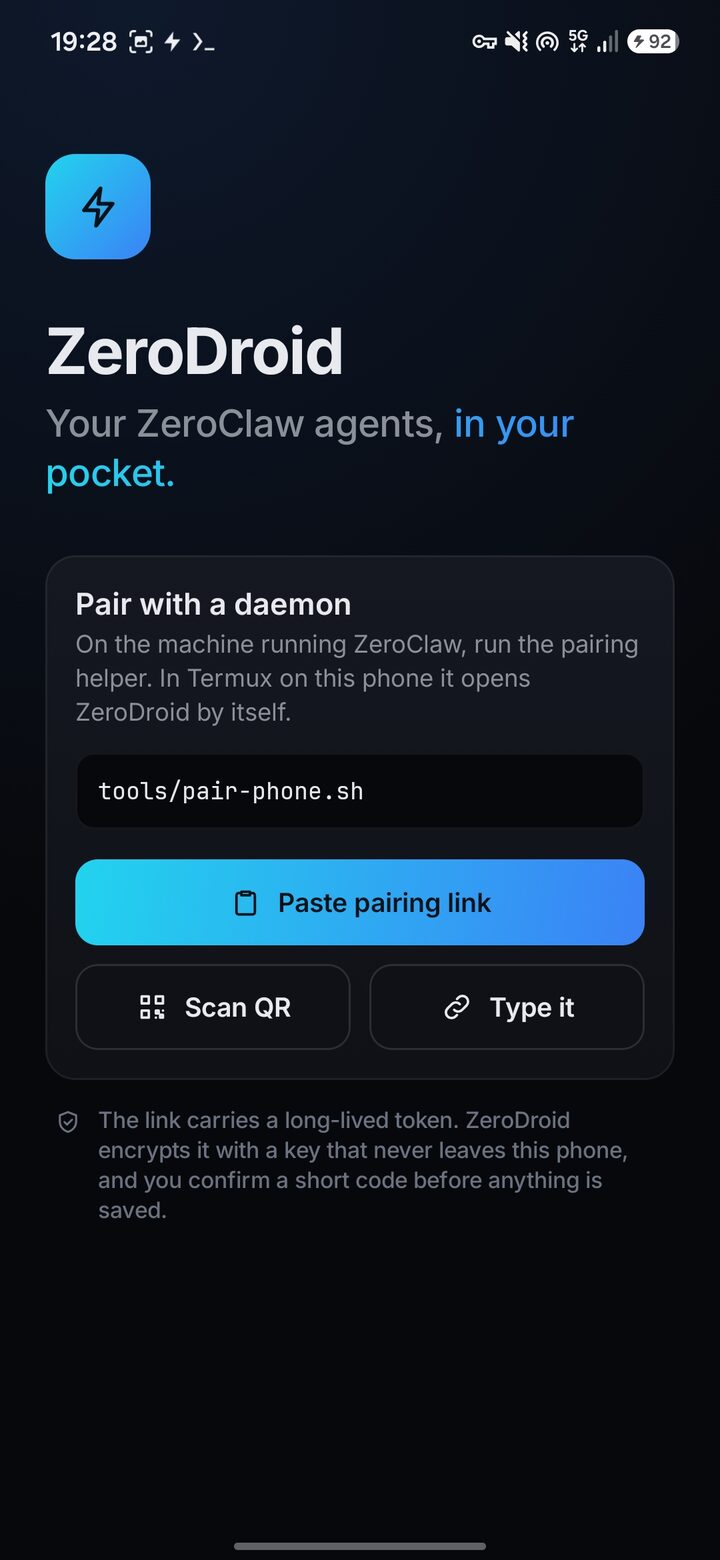
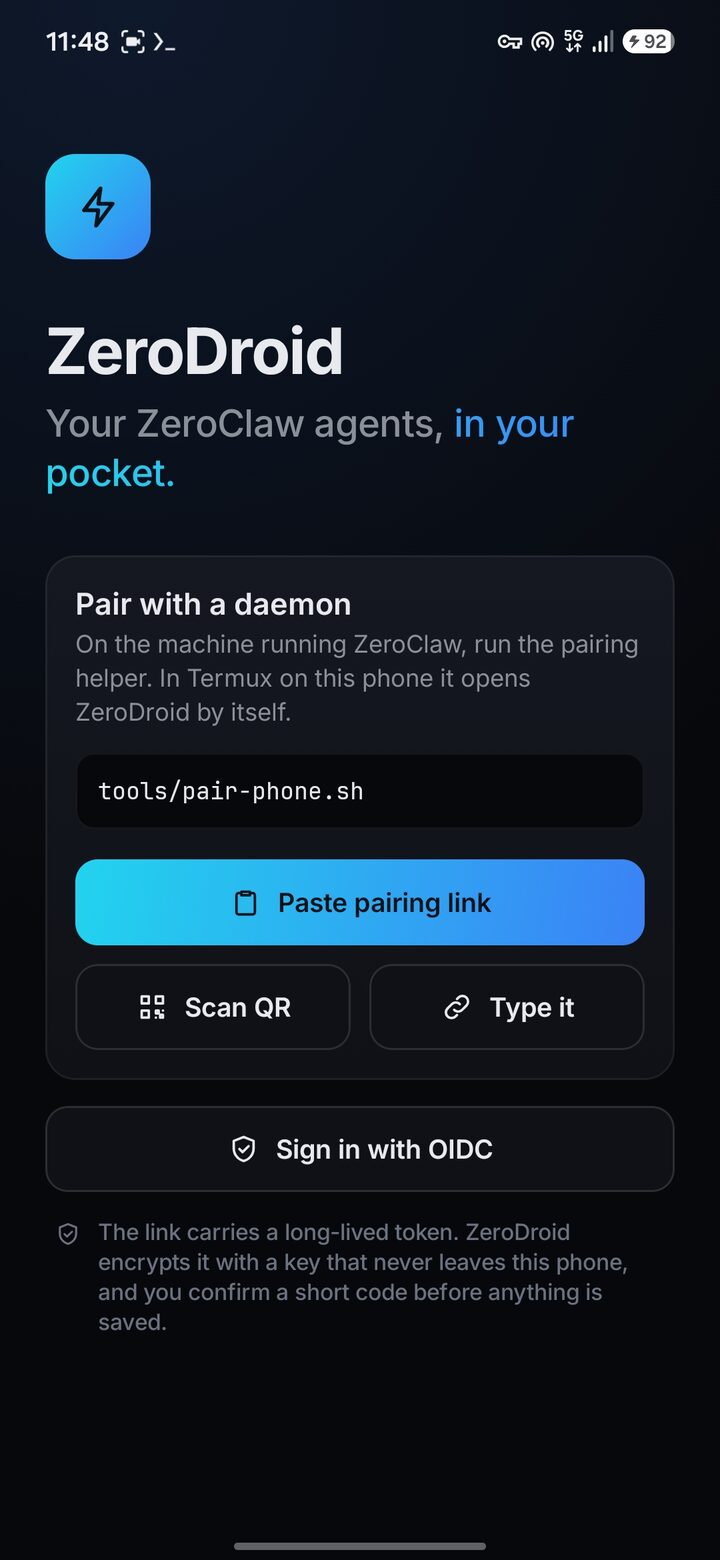
docs(readme): document OIDC sign-in with screenshots
Welcome screen with the new Sign in with OIDC option, the sign-in form, install requirements for either sign-in path, the permissions the app actually needs, and renewal/revalidation behaviour. Changelog entry under Unreleased.

Changed region(s): [[0.0611, 0.7077, 0.8556, 0.8615], [0.6417, 0.0, 0.9472, 0.0308], [0.0611, 0.0, 0.2444, 0.0308]]

diff --git a/README.md b/README.md
@@ -60,6 +60,10 @@ memory all stay on the daemon.
   Android Keystore, a pinned CA, and an encrypted bearer token. Pairing
   always asks you to compare a short code, so another app cannot pair
   silently.
+- **Sign in with OIDC**: for daemons behind an identity provider, sign in
+  like `zerocode login`, approving in the browser, with no pairing link. The
+  app reminds you before the sign-in expires and renews it without
+  interrupting a running turn.
 
 ## Screenshots
 
@@ -73,19 +77,22 @@ memory all stay on the daemon.
 | Chat menu | Choose a folder | Editing a setting |
 
 <details>
-<summary>Pairing</summary>
+<summary>Pairing and sign-in</summary>
 
 | | | |
 |:-:|:-:|:-:|
-| ![The welcome screen with the pairing options](docs/screenshots/onboarding.jpg) | ![Confirming the pairing code](docs/screenshots/pair-confirm.jpg) | ![The paired daemon and its certificate](docs/screenshots/pairing-settings.jpg) |
+| ![The welcome screen with the pairing and OIDC options](docs/screenshots/onboarding.jpg) | ![Confirming the pairing code](docs/screenshots/pair-confirm.jpg) | ![The paired daemon and its certificate](docs/screenshots/pairing-settings.jpg) |
 | Welcome | Compare the code | Paired daemon |
+| ![The OIDC sign-in form with the advanced WSS and gateway URLs](docs/screenshots/oidc-sign-in.jpg) | | |
+| Sign in with OIDC | | |
 
 </details>
 
 ## Install
 
 You need Android 10 or newer and a ZeroClaw daemon, version 0.9.0 or newer,
-with its RPC plane (WSS) and enrollment endpoint enabled.
+with its RPC plane (WSS) enabled, plus either its enrollment endpoint (to pair
+with a link) or an OIDC provider (to [sign in](#sign-in-with-oidc)).
 
 Download `zerodroid-X.Y.Z.apk` from the
 [latest release](https://github.com/SyscallBrain/zerodroid/releases/latest)
@@ -163,14 +170,19 @@ the way `zerocode login` does (ZeroClaw v0.9.0 or later), with no pairing link.
 Tap *Sign in with OIDC*, enter the daemon host and the provider alias (for
 example `corp`), and approve the sign-in in the browser. *Advanced* takes a
 custom WSS URL (default `wss://<host>:9781/`) and gateway URL (default
-`https://<host>:42617`, or the HTTPS URL of the proxy in front of it).
+`https://<host>:42617`, or the HTTPS URL of the proxy in front of it). Plain
+`http://` is accepted only for a gateway on the phone itself (`127.0.0.1`),
+such as a daemon in Termux.
 
 The daemon needs, as for `zerocode login`:
 
 - an `[oidc.<alias>]` provider with the device authorization grant enabled at
   the identity provider;
-- a permission mapping that gives the user `sessions:create` and at least one
-  allowed agent (ZeroDroid assumes operator-level access in v1);
+- a permission mapping for the user. Sign-in itself needs `sessions:create`
+  and at least one allowed agent, but the app also reads the daemon's status,
+  agents, costs, SOPs and config: with only `sessions` granted, most screens
+  say the device is not allowed. ZeroDroid expects operator-level access
+  (read on those resources, or `admin = true`);
 - WSS enabled, with the host the phone uses in `[wss].sans`;
 - the gateway reachable over HTTPS. If Android does not trust its certificate,
   the app shows the SHA-256 fingerprint and pins that exact certificate once
@@ -178,8 +190,12 @@ The daemon needs, as for `zerocode login`:
 
 ZeroClaw does not hand out refresh tokens, so ZeroDroid asks you to renew the
 sign-in five minutes before the access token expires (sooner for very short
-tokens). Renewing keeps a running turn going; if the token runs out, the app
-disconnects and waits for you to sign in again. Give the client an access
+tokens), and asks again by notification if an agent is working while the app
+is in the background. Renewing re-verifies the new token on the open
+connection, so a running turn keeps going; if the token runs out, the app
+disconnects and waits for you to sign in again. With token introspection the
+daemon also asks clients to re-verify every `revalidation_secs` (60 s by
+default); ZeroDroid does that on its own, without interrupting you. Give the client an access
 token lifetime of **30 to 60 minutes**: with Keycloak's 5-minute default you
 would be asked every few minutes.
 
@@ -193,7 +209,9 @@ ZeroDroid speaks the daemon's JSON-RPC protocol over WebSocket with TLS 1.3
 and a client certificate (port 9781 by default). On first use it creates a
 P-256 key inside the Android Keystore, enrolls a certificate with the
 one-time code (port 9782), pins the daemon's CA and stores the token
-encrypted with a Keystore key.
+encrypted with a Keystore key. With OIDC, the gateway relays the identity
+provider's device grant (with PKCE) and signs the certificate instead, and the
+token is the provider's access token, sent with `auth_provider = "oidc.<alias>"`.
 
 A turn on the daemon belongs to the connection that started it, so the app
 keeps that connection alive in a foreground service while a turn or an

diff --git a/CHANGELOG.md b/CHANGELOG.md
@@ -6,6 +6,17 @@ All notable changes to this project are documented here. The format follows
 
 ## [Unreleased]
 
+### Added
+
+- Sign in with OIDC, like `zerocode login`, for daemons behind an identity
+  provider: enter the host and the provider alias, approve in the browser, and
+  no pairing link is needed. A gateway with a certificate Android does not
+  trust shows its SHA-256 fingerprint, and ZeroDroid pins that exact
+  certificate once you accept it.
+- A banner, and a notification while an agent works in the background, asks
+  you to renew the sign-in five minutes before it expires. Renewing keeps a
+  running turn going.
+
 ## [0.5.0] - 2026-11-22
 
 ### Added
